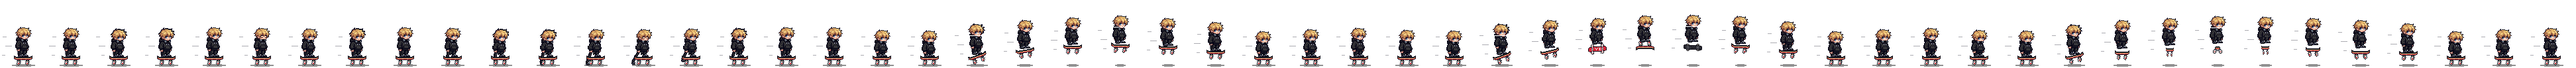
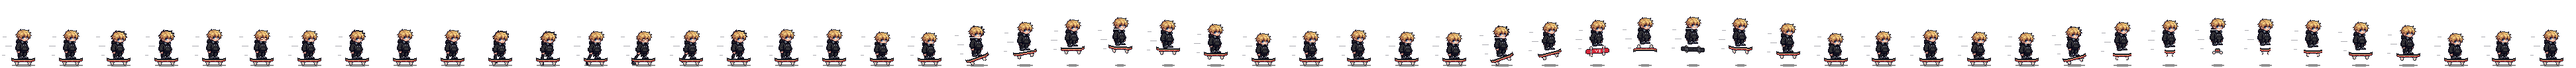
docs: make Yuyu's skateboard long and low

Changed region(s): [[0.0, 0.2308, 0.9959, 0.9519]]

diff --git a/scripts/yuyu-skate.py b/scripts/yuyu-skate.py
@@ -8,7 +8,7 @@ SRC, OUT = sys.argv[1], sys.argv[2]
 FW, FH = 72, 104         # frame size: room for the board, a push and some air
 CX = 10                  # where the 48px body sits horizontally
 GROUND = 99              # wheels touch this row
-DECK = GROUND - 11       # deck surface row when the board is on the ground
+DECK = GROUND - 8        # deck surface row when the board is on the ground
 FEET = DECK - 1          # Yuyu's soles rest on the row above
 src = Image.open(SRC).convert("RGBA")
 BODY = [src.crop(((8 + i) * 48, 0, (9 + i) * 48, 64)) for i in range(8)]
@@ -27,7 +27,7 @@ CORE, CORE_D = (214, 40, 57, 255), (120, 22, 34, 255)
 LINE = (113, 113, 122, 150)
 SHADOW = (0, 0, 0, 110)
 
-L = 28  # board length; every board is drawn nose to the right
+L = 36  # board length; every board is drawn nose to the right
 
 
 def outline(b, only=lambda x, y: True):
@@ -43,59 +43,53 @@ def outline(b, only=lambda x, y: True):
 def deck_top(x):
     """The deck's top edge: flat in the middle, kicked up at tail and nose."""
     k = min(x, L - 1 - x)
-    return 3 - round(max(0, 4 - k) ** 1.4 / 4 ** 1.4 * 2)
+    return 2 - round(max(0, 5 - k) ** 1.4 / 5 ** 1.4 * 2)
 
 
 def side_board(phase=0):
+    """A low board: thin deck (grip, wood, graphic), short trucks, small wheels."""
     b = {}
     for x in range(L):
         t = deck_top(x)
         end = x in (0, L - 1)
         b[(x, t - 1)] = O
         b[(x, t)] = O if end else GRIP
-        b[(x, t + 1)] = O if end else (WOOD_D if min(x, L - 1 - x) < 4 else WOOD)
-        b[(x, t + 2)] = O if end else (RED_L if x % 7 in (3, 4) else RED)
+        b[(x, t + 1)] = O if end else (WOOD_D if min(x, L - 1 - x) < 5 else WOOD)
+        b[(x, t + 2)] = O if end else (RED_L if x % 8 in (3, 4) else RED)
         b[(x, t + 3)] = O
     wheels = {}
-    for cx in (7, L - 8):
-        # Truck: baseplate, kingpin with its bushing, hanger.
-        for x in range(cx - 1, cx + 2):
-            b[(x, 7)] = METAL_D
-        b[(cx, 8)] = BUSH
+    for cx in (8, L - 9):
+        # Truck: a short hanger with its bushing.
         for x in range(cx - 2, cx + 3):
-            b[(x, 9)] = METAL_L if x < cx else METAL
-        # Wheel: 4x4 urethane with a red core whose bearing mark turns.
-        for dx in range(-2, 2):
-            for dy in range(4):
-                if dx in (-2, 1) and dy in (0, 3):
-                    continue
-                wheels[(cx + dx, 10 + dy)] = WHEEL_L if (dx == -2 or dy == 0) else (WHEEL_D if (dx == 1 or dy == 3) else WHEEL)
-        ring = [(-1, 1), (0, 1), (0, 2), (-1, 2)]
-        for dx, dy in ring:
-            wheels[(cx + dx, 10 + dy)] = CORE
-        rx, ry = ring[phase % 4]
-        wheels[(cx + rx, 10 + ry)] = CORE_D
+            b[(x, 6)] = METAL_L if x < cx else METAL
+        b[(cx, 6)] = BUSH
+        # Wheel: 3x3 urethane around a red core that blinks as it turns.
+        for dx in (-1, 0, 1):
+            for dy in (7, 8, 9):
+                wheels[(cx + dx, dy)] = WHEEL_L if (dx == -1 or dy == 7) else WHEEL
+        wheels[(cx, 8)] = CORE if phase % 2 == 0 else CORE_D
+        wheels[(cx + (1 if phase % 4 < 2 else -1), 9)] = WHEEL_D
     b.update(wheels)
-    outline(b, lambda x, y: y >= 7)
+    outline(b, lambda x, y: y >= 6)
     return b
 
 
 def under_board():
     """The graphic side, seen mid-kickflip: a YI monogram on red, trucks and wheels towards us."""
     rows = [
-        "..oooooooooooooooooooooooo..",
-        ".oRRRRRRRRRRRRRRRRRRRRRRRRo.",
-        "oRRRRRRRRRWRRRWRWWWRRRRRRRRo",
-        "oRRRRRRRRRRWRWRRRWRRRRRRRRRo",
-        "oRRRRRRRRRRRWRRRRWRRRRRRRRRo",
-        "oRRRRRRRRRRRWRRRWWWRRRRRRRRo",
-        "oDRRRRRRRRRRRRRRRRRRRRRRRRDo",
-        "..oooooooooooooooooooooooo..",
+        "..oooooooooooooooooooooooooooooooo..",
+        ".oRRRRRRRRRRRRRRRRRRRRRRRRRRRRRRRRo.",
+        "oRRRRRRRRRRRRRWRRRWRWWWRRRRRRRRRRRRo",
+        "oRRRRRRRRRRRRRRWRWRRRWRRRRRRRRRRRRRo",
+        "oRRRRRRRRRRRRRRRWRRRRWRRRRRRRRRRRRRo",
+        "oRRRRRRRRRRRRRRRWRRRWWWRRRRRRRRRRRRo",
+        "oDRRRRRRRRRRRRRRRRRRRRRRRRRRRRRRRRDo",
+        "..oooooooooooooooooooooooooooooooo..",
     ]
     key = {"o": O, "R": RED, "W": WHITE, "D": RED_D}
     b = {(x, y): key[c] for y, r in enumerate(rows) for x, c in enumerate(r) if c != "."}
     parts = {}
-    for cx in (6, L - 7):
+    for cx in (8, L - 9):
         # Baseplate and hanger seen from below, wheels sticking out past both edges.
         for x in range(cx - 1, cx + 2):
             for y in range(2, 6):
@@ -115,7 +109,7 @@ def under_board():
 def grip_board():
     """Grip tape on top: speckled, with the eight truck bolts, wheels peeking out beyond."""
     b = {}
-    for cx in (6, L - 7):
+    for cx in (8, L - 9):
         for dx in range(-1, 2):
             b[(cx + dx, 7)] = WHEEL_D
             b[(cx + dx, -1)] = WHEEL_D
@@ -129,7 +123,7 @@ def grip_board():
                 continue
             n = (x * 37 + y * 91 + x * y * 13) % 11
             b[(x, y)] = GRIP_L if n == 0 else (GRIP_D if n in (3, 7) else GRIP)
-    for cx in (6, L - 7):
+    for cx in (8, L - 9):
         for dx in (-1, 1):
             for dy in (2, 4):
                 b[(cx + dx, dy)] = BOLT
@@ -142,7 +136,7 @@ def flip_v(b):
 
 
 # The row of each board that lines up with the deck's resting row (and that it turns around).
-PIVOT = {"side": 3, "under": 4, "grip": 3, "upside": 11}
+PIVOT = {"side": 2, "under": 4, "grip": 3, "upside": 8}
 
 
 def plot_board(img, kind, cx, row, angle=0.0, sx=1.0, mirror=False, phase=0, min_y=0):
@@ -175,14 +169,13 @@ def end_on(img, cx, row):
         b[(x, 0)] = GRIP
         b[(x, 1)] = WOOD
         b[(x, 2)] = RED
-    b[(-1, 3)] = METAL_D
-    b[(0, 3)] = BUSH
     for x in range(-5, 5):
         b[(x, 4)] = METAL_L if -4 < x < 3 else METAL
-    for x0 in (-6, 3):
+    b[(0, 4)] = BUSH
+    for x0 in (-7, 4):
         for dx in range(3):
-            for dy in range(5, 9):
-                b[(x0 + dx, dy)] = CORE if dx == 1 and dy in (6, 7) else (WHEEL_L if dy == 5 else WHEEL)
+            for dy in range(4, 7):
+                b[(x0 + dx, dy)] = CORE if dx == 1 and dy == 5 else (WHEEL_L if dy == 4 else WHEEL)
     outline(b)
     px = img.load()
     for (x, y), c in b.items():
@@ -281,7 +274,7 @@ def ride():
 
 def push():
     # The back foot steps down, pushes back along the ground and comes up onto the tail again.
-    steps = [(0, 0), (-1, 4), (-2, 9), (-4, 12), (-7, 12), (-10, 11), (-7, 7), (-3, 3), (0, 0), (0, 0)]
+    steps = [(0, 0), (-1, 3), (-2, 6), (-4, 9), (-7, 9), (-10, 8), (-7, 5), (-3, 2), (0, 0), (0, 0)]
     out = []
     for k, (dx, dy) in enumerate(steps):
         c = 2 if 2 <= k <= 6 else (1 if k in (1, 7) else 0)
